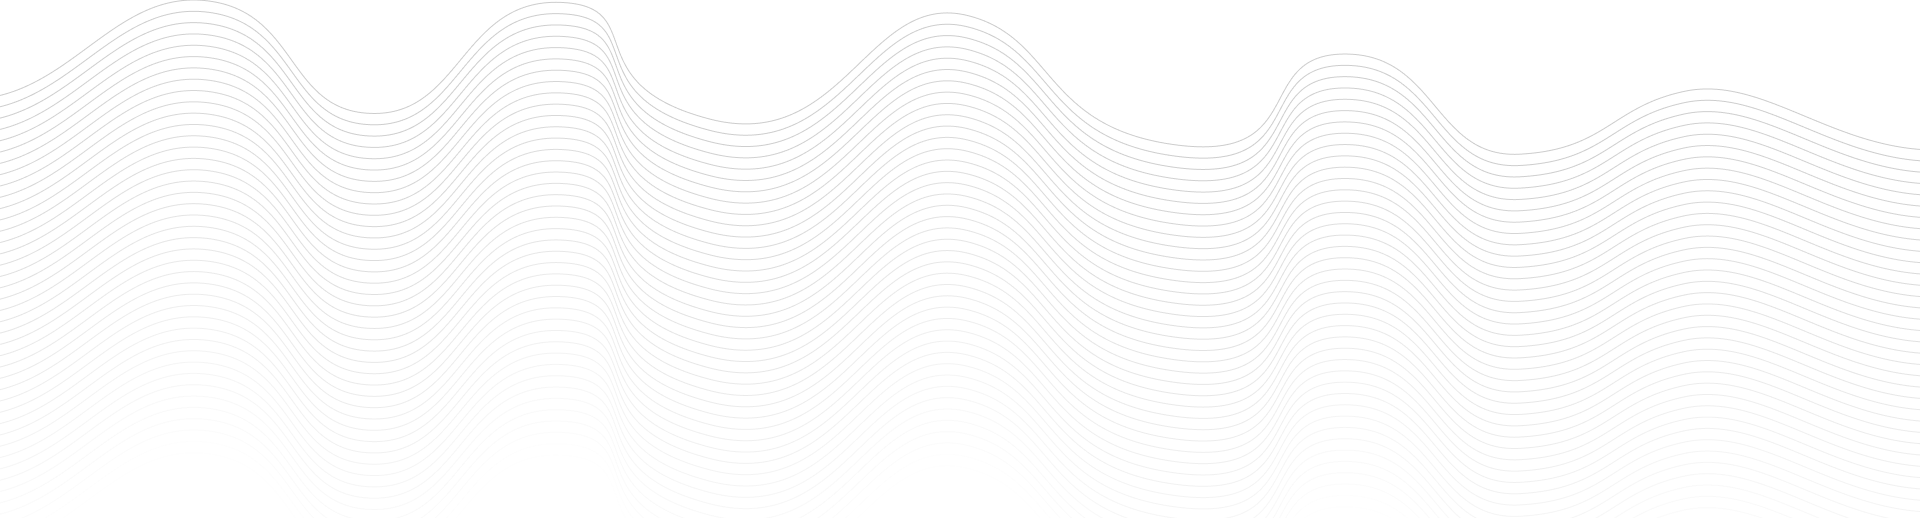
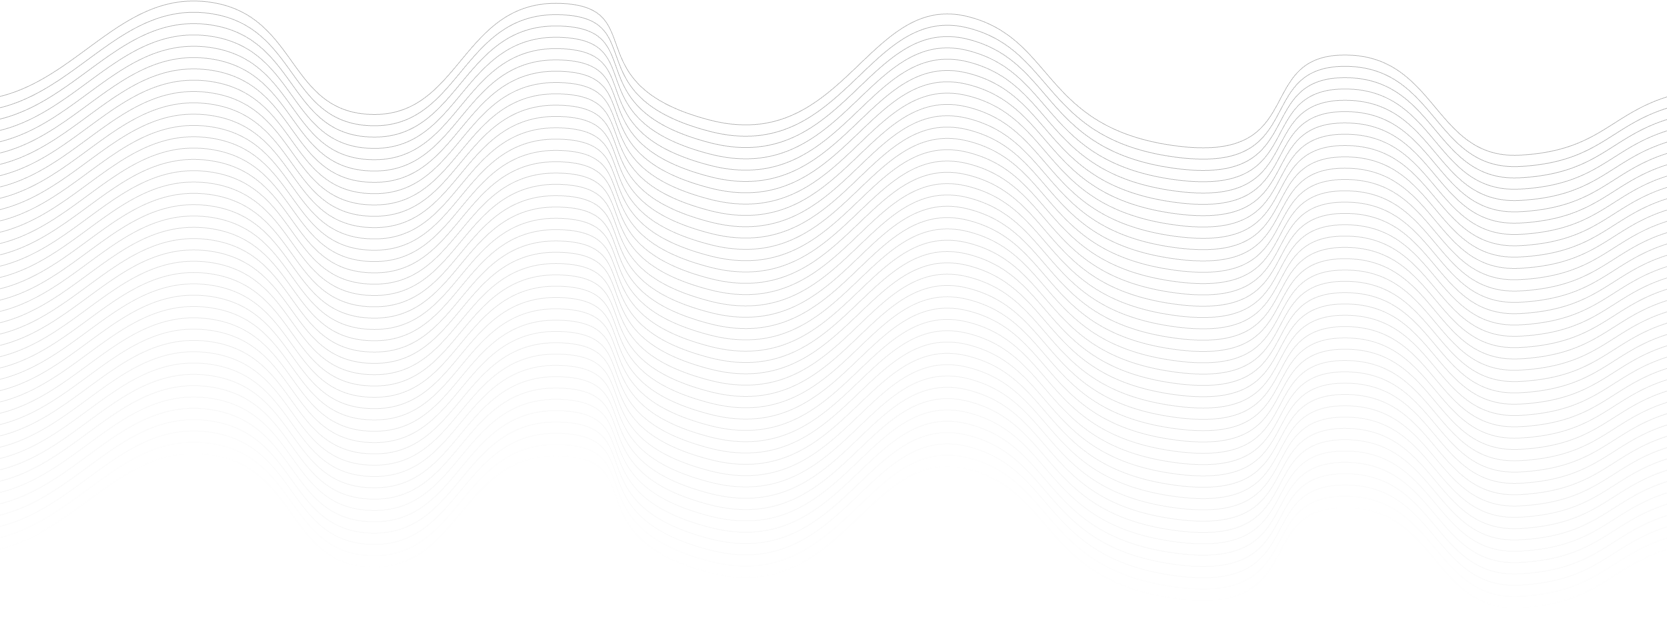
style: change bg

diff --git a/src/pages/Explore/styles.module.scss b/src/pages/Explore/styles.module.scss
@@ -4,5 +4,5 @@
   padding-bottom: 40px;
   background: url("../../assets/images/bg-sec-pages.png");
   background-repeat: repeat-x;
-  background-position: left bottom -40px;
+  background-position: left bottom -150px;
 }

diff --git a/src/pages/Faq/styles.module.scss b/src/pages/Faq/styles.module.scss
@@ -4,5 +4,5 @@
   padding-bottom: 40px;
   background: url("../../assets/images/bg-sec-pages.png");
   background-repeat: repeat-x;
-  background-position: left bottom -40px;
+  background-position: left bottom -150px;
 }

diff --git a/src/pages/Terms/styles.module.scss b/src/pages/Terms/styles.module.scss
@@ -4,5 +4,5 @@
   padding-bottom: 40px;
   background: url("../../assets/images/bg-sec-pages.png");
   background-repeat: repeat-x;
-  background-position: left bottom -40px;
+  background-position: left bottom -150px;
 }
